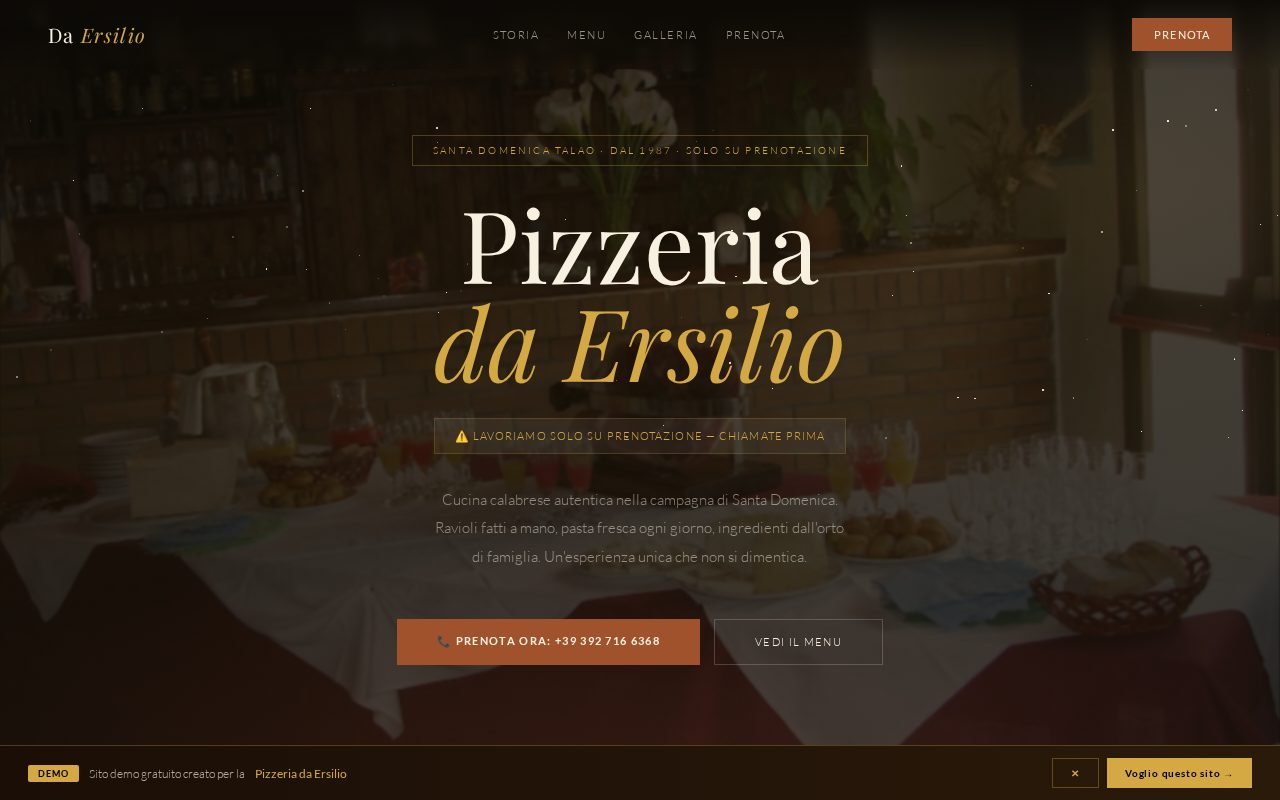
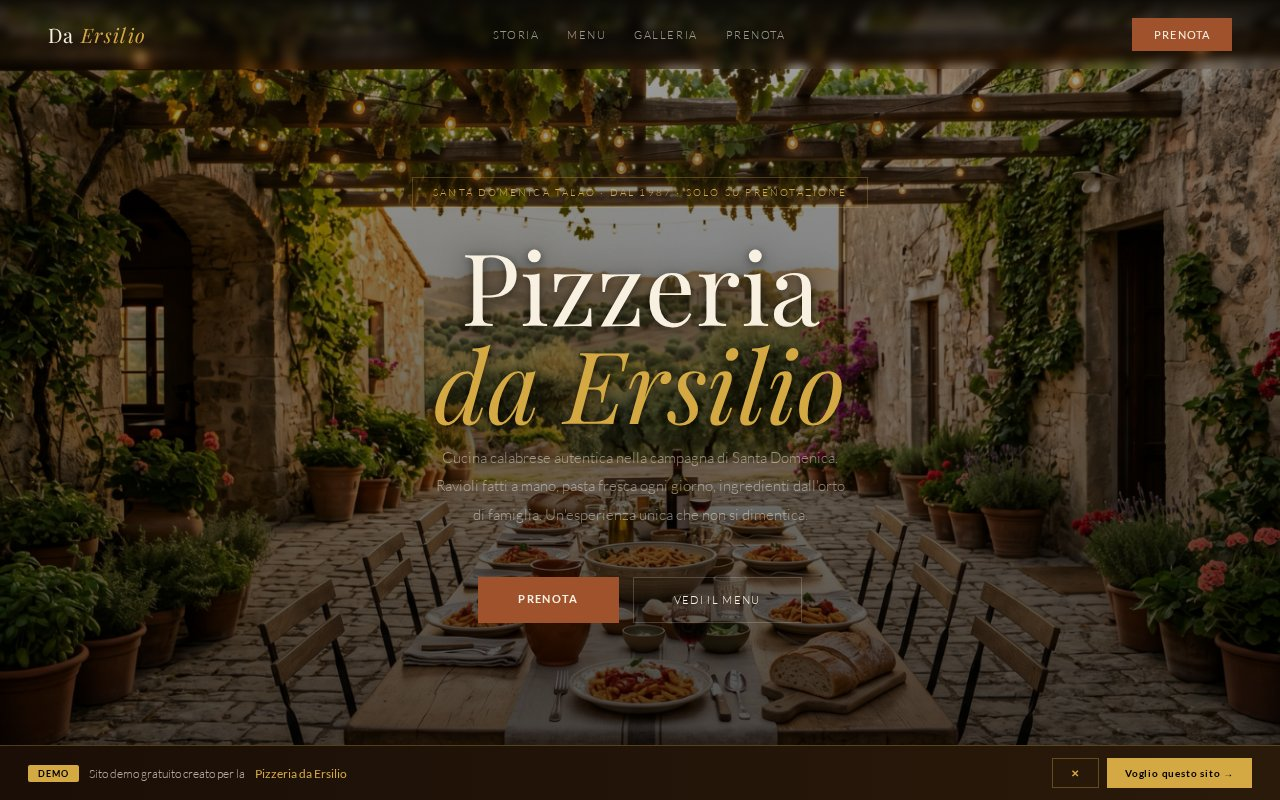
ersilio: AI hero + chi-siamo photos, ken burns, drop dup badge, WA CTA

diff --git a/ersilio/index.html b/ersilio/index.html
@@ -40,11 +40,13 @@ nav{position:fixed;top:0;left:0;right:0;z-index:100;padding:18px 48px;display:fl
 .hero{min-height:100vh;position:relative;display:flex;align-items:center;justify-content:center;overflow:hidden}
 .hero-bg{
   position:absolute;inset:0;
-  background:
-    radial-gradient(ellipse 120% 60% at 50% 100%,rgba(160,82,45,.2) 0%,transparent 55%),
-    radial-gradient(ellipse 60% 40% at 80% 20%,rgba(212,168,67,.06) 0%,transparent 50%),
-    linear-gradient(170deg,#0C0A06 0%,#1A1206 40%,#0C0A06 100%);
+  background:url('ersilio-photos/hero.png') center top/cover no-repeat;
+  will-change:transform;
+  animation:kenburns 25s ease-in-out infinite alternate;
 }
+@keyframes kenburns{0%{transform:scale(1.03) translate3d(0,0,0)}100%{transform:scale(1.08) translate3d(-1%,-1%,0)}}
+@media(prefers-reduced-motion:reduce){.hero-bg{animation:none;transform:scale(1.03)}}
+.hero-bg::after{content:'';position:absolute;inset:0;background:linear-gradient(to bottom,rgba(0,0,0,.35) 0%,rgba(0,0,0,.5) 40%,rgba(0,0,0,.7) 100%);pointer-events:none}
 
 /* Fireflies */
 .ff{position:absolute;border-radius:50%;pointer-events:none;animation:ffanim var(--d,4s) ease-in-out infinite}
@@ -66,9 +68,12 @@ nav{position:fixed;top:0;left:0;right:0;z-index:100;padding:18px 48px;display:fl
   font-size:clamp(50px,8vw,100px);
   font-weight:400;line-height:.98;
   margin-bottom:12px;
+  text-shadow:0 4px 30px rgba(0,0,0,.7),0 2px 10px rgba(0,0,0,.5);
   opacity:0;animation:fu .9s ease .5s forwards;
 }
 .hero-title em{font-style:italic;color:var(--gold);display:block}
+.hero-badge{text-shadow:0 2px 15px rgba(0,0,0,.6)}
+.hero-desc{text-shadow:0 2px 15px rgba(0,0,0,.6)}
 .hero-prenotazione{
   display:inline-block;
   background:rgba(255,255,255,.06);border:1px solid rgba(212,168,67,.2);
@@ -207,17 +212,12 @@ footer{background:var(--dark);border-top:1px solid rgba(255,255,255,.05);padding
 
 <section class="hero">
   <div class="hero-bg"></div>
-  <div class="hero-img">
-    <img src="https://lh3.googleusercontent.com/places/ANXAkqFIjCez6-PkRaTouTNFcPJsoq20Niv87_zD6lYlHUhJzC3nnuOKTFx4y6JzPj3KJQWlhrZE-1Z1ZnrmcL2Z-jcffwmfHa6CqGY=s4800-w800-h600" alt="Pizzeria da Ersilio"/>
-  </div>
-  <div class="stars" id="stars1"></div>
   <div class="hero-content">
     <div class="hero-badge">Santa Domenica Talao · Dal 1987 · Solo su prenotazione</div>
     <h1 class="hero-title">Pizzeria<br><em>da Ersilio</em></h1>
-    <div class="hero-prenotazione">⚠ Lavoriamo solo su prenotazione — chiamate prima</div>
     <p class="hero-desc">Cucina calabrese autentica nella campagna di Santa Domenica. Ravioli fatti a mano, pasta fresca ogni giorno, ingredienti dall'orto di famiglia. Un'esperienza unica che non si dimentica.</p>
     <div class="hero-btns">
-      <a href="tel:+393927166368" class="btn-p">📞 Prenota ora: +39 392 716 6368</a>
+      <a href="https://wa.me/393927166368" target="_blank" rel="noopener" class="btn-p">Prenota</a>
       <a href="#menu" class="btn-s">Vedi il menu</a>
     </div>
   </div>
@@ -250,7 +250,7 @@ footer{background:var(--dark);border-top:1px solid rgba(255,255,255,.05);padding
 
 <section class="about" id="storia">
   <div class="about-img">
-    <img src="https://lh3.googleusercontent.com/places/ANXAkqGixrECpnbV-I03mbetsj2kqwE1yTYcqhuPOp8ncOtHLI8Y-PAtKrEBJ657A6iBGHCRfNXi04Cdy3wn7Yx_RJnN6bPBuhs1974=s4800-w800-h600" alt="Cucina da Ersilio"/>
+    <img src="ersilio-photos/chi-siamo.png" alt="Cucina da Ersilio" style="object-fit:cover;opacity:.85"/>
     <div class="about-img-overlay"></div>
     <div class="about-year">1987</div>
   </div>
